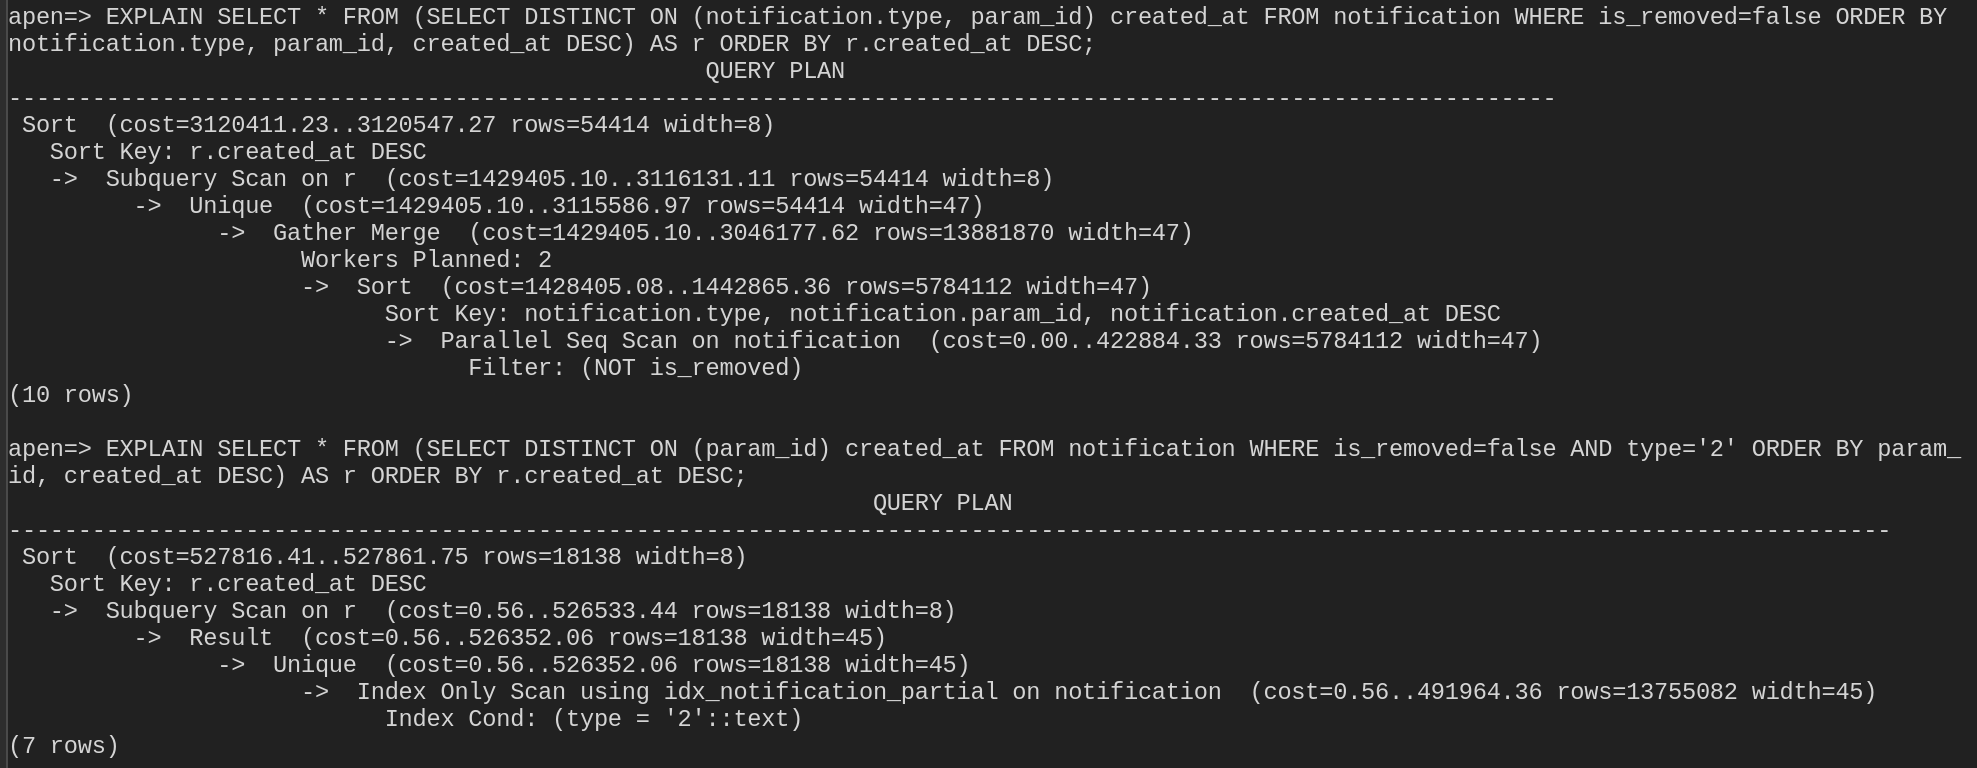
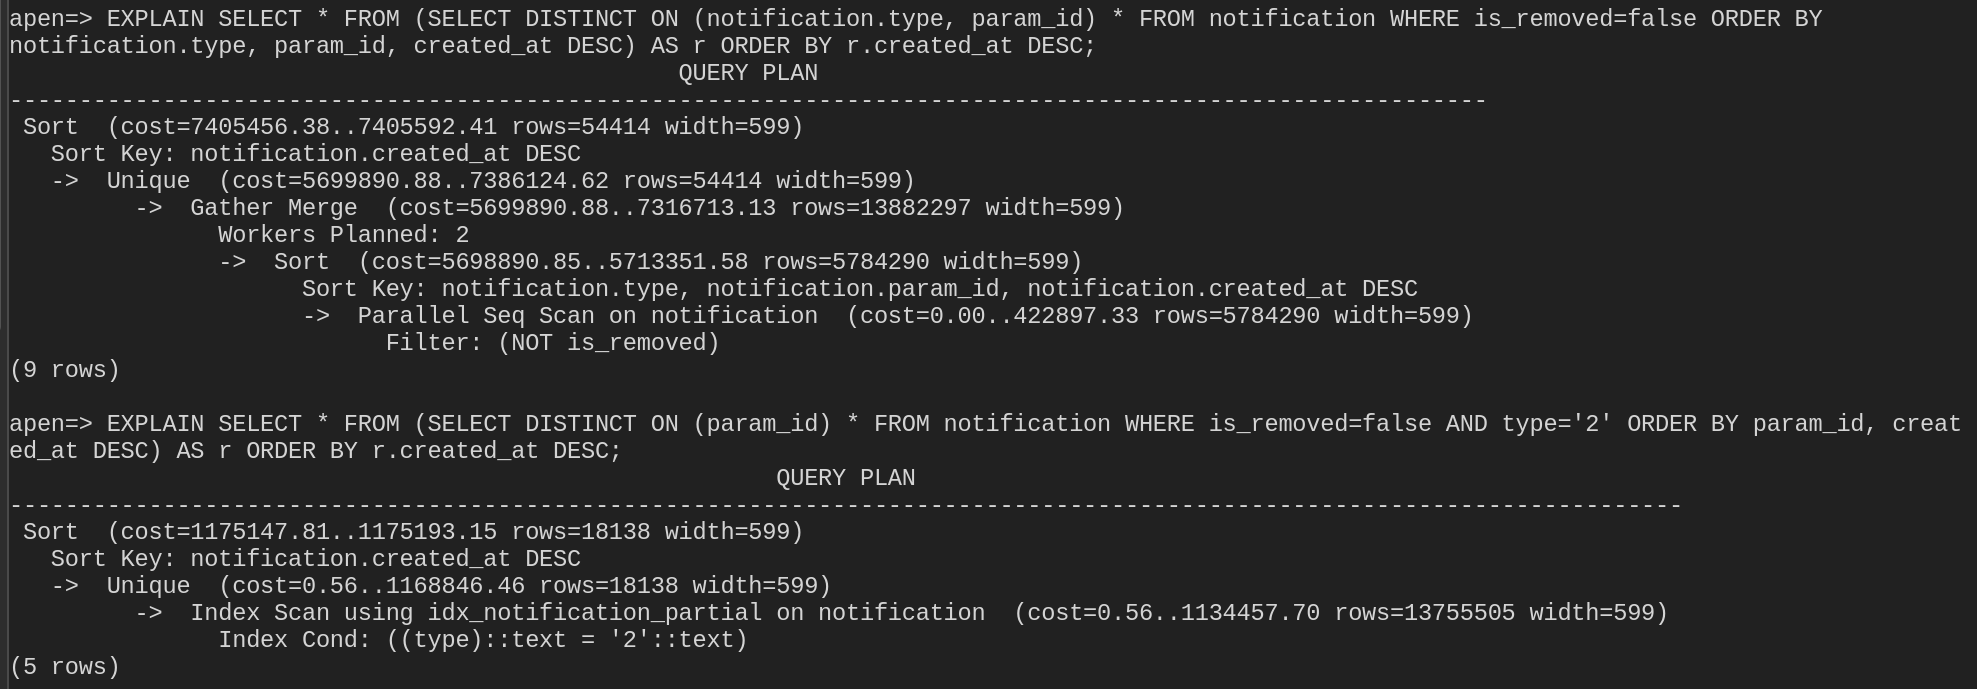
update

diff --git a/src/notification_api.md b/src/notification_api.md
@@ -255,9 +255,46 @@ With the use of ```DISTINCT ON (notification.type, param_id)```, we could now re
 			) AS r
 			ORDER BY
 				r.created_at DESC
-			LIMIT 
-				?
    ```
+
+Still, separated small queries are often preferred over having a single big query, so we could parallel them into different queries.
+
+##### single query vs separated queries
+<img style="
+  display: block;
+  margin-left: auto;
+  margin-right: auto;
+  margin-top: 32px;
+  margin-bottom: 32px;
+  border-radius: 12px;
+" src="./img/separate_query_by_type.png"></img>
+
+##### separated small query
+```
+		SELECT * 
+    FROM
+		(
+			SELECT
+				DISTINCT ON
+				(
+					param_id
+				)
+				*
+			FROM
+				notification
+			WHERE
+				is_removed=false
+				AND
+				type=?
+			ORDER BY
+				param_id,
+				created_at DESC
+		) AS r
+		ORDER BY
+			r.created_at DESC
+```
+
+This modification help remove worst case scenario and allow for better parallelization for later chapter.
 
 ## Parallelization
 
@@ -689,16 +726,8 @@ What quickly comes to mind that need to be considered when adding caching
   2) update to cached value on events like notification list insert/delete/update...
   3) distributed redis lock or database lock to avoid race condition across pods
 
-Also, instead of doing one query to get all notification types, one alternative is to parallel them into different queries.
+##### note
+- parallel, deadline or cancel? > flush msgs every 5 seconds, time function, deadline context
+- if a user calls notification api he should already have user object and be able to retrieve fields like selfID gender isAdmin userCreatedAt, jwt auth revise (put necessary attributes like category, isAdmin, gender… in jwt token instead of using model.GetMe for all apis), api parameter improvement (string -> int…), pagination (retrieve full list), find the position olf next symbol with heapify or hashtable scan for cached whole list O(n) -> O(log(n))
+- levelized caching (parallel get notif by type, update on insertion), cross users post/event caching
 
-##### parallel query
-<img style="
-  display: block;
-  margin-left: auto;
-  margin-right: auto;
-  margin-top: 32px;
-  margin-bottom: 32px;
-  border-radius: 12px;
-" src="./img/separate_query_by_type.png"></img>
-
-However this would spawned ~10 sql queries at once, which would require further comparison and more data to decide whether to do this or not.
